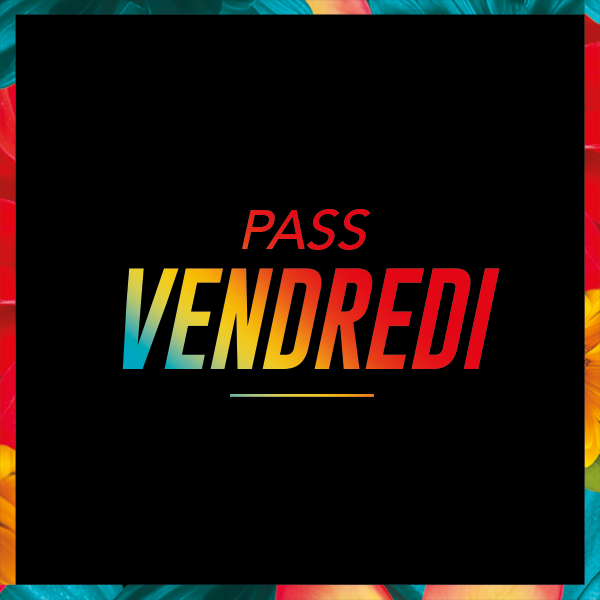
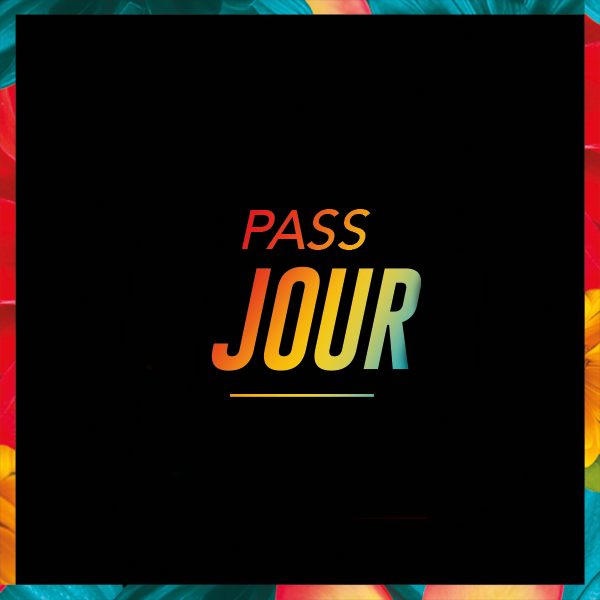
ajout du CSS page billeterie

Changed region(s): [[0.18, 0.33, 0.84, 0.66], [0.39, 0.39, 0.42, 0.42]]

diff --git a/festiut/templates/billeterie.html b/festiut/templates/billeterie.html
@@ -1,11 +1,9 @@
 {% extends 'base.html' %}
 {% block main %}
-<div>
+<link rel="stylesheet" href="{{ url_for('static', filename='css/billeterie.css') }}">
+<div class="placementBillet">
     {% for i in range(billets|length) %}
         <div class="billet">
-            <div class="titre">
-                <h2>{{ billets[i].nomTypeBillet }}</h2>
-            </div>
             <div class="div_img">
                 <a href="{{ url_for('info_billet', idBillet=billets[i].idBillet) }}">
                     <img class="img_acc" src="{{ url_for('static', filename='images/' + billets[i].nomTypeBillet|str + '.png') }}" alt="img">

diff --git a/festiut/static/css/billeterie.css b/festiut/static/css/billeterie.css
@@ -1,0 +1,24 @@
+.placementBillet {
+    padding-top: 10%;
+    display: flex;
+    justify-content: center; /* Centre les éléments horizontalement */
+}
+
+.billet {
+    margin: 0 10px; /* Ajoute une marge autour de chaque billet */
+}
+
+.div_img {
+    width: 85%;
+    height: auto;
+    box-sizing: border-box;
+    object-fit: cover;
+    padding: 20px;
+    margin: 0 auto; /* Centre les éléments horizontalement */
+}
+
+.img_acc {
+    width: 100%;
+    height: auto;
+    display: block;
+}
